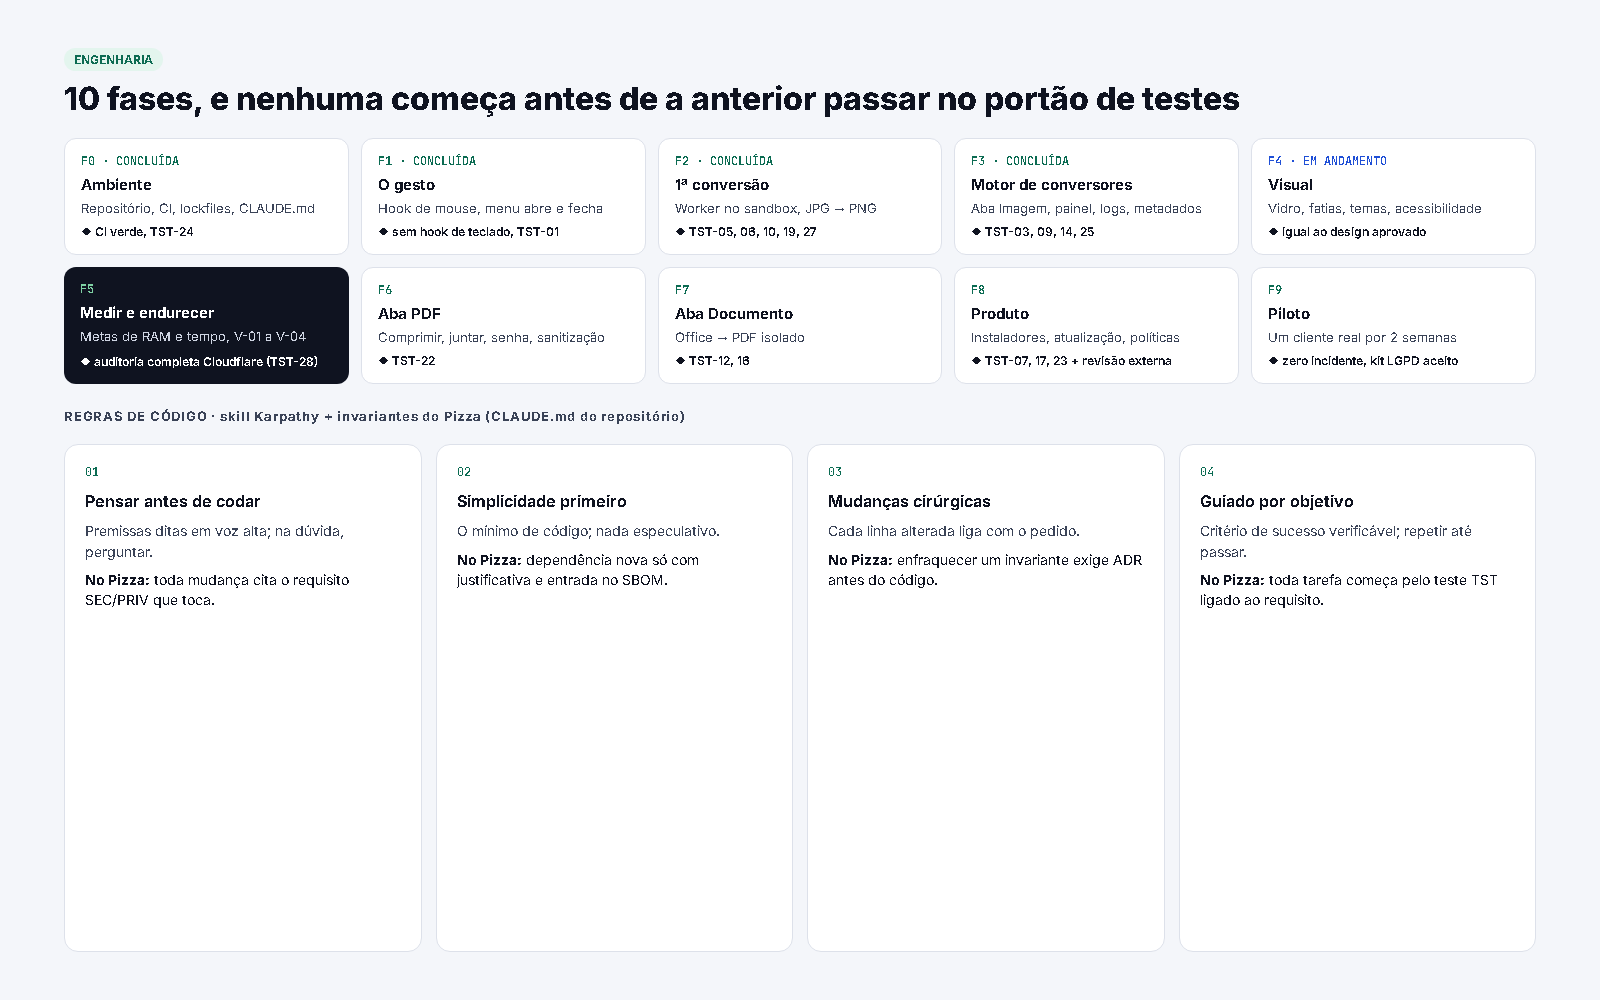
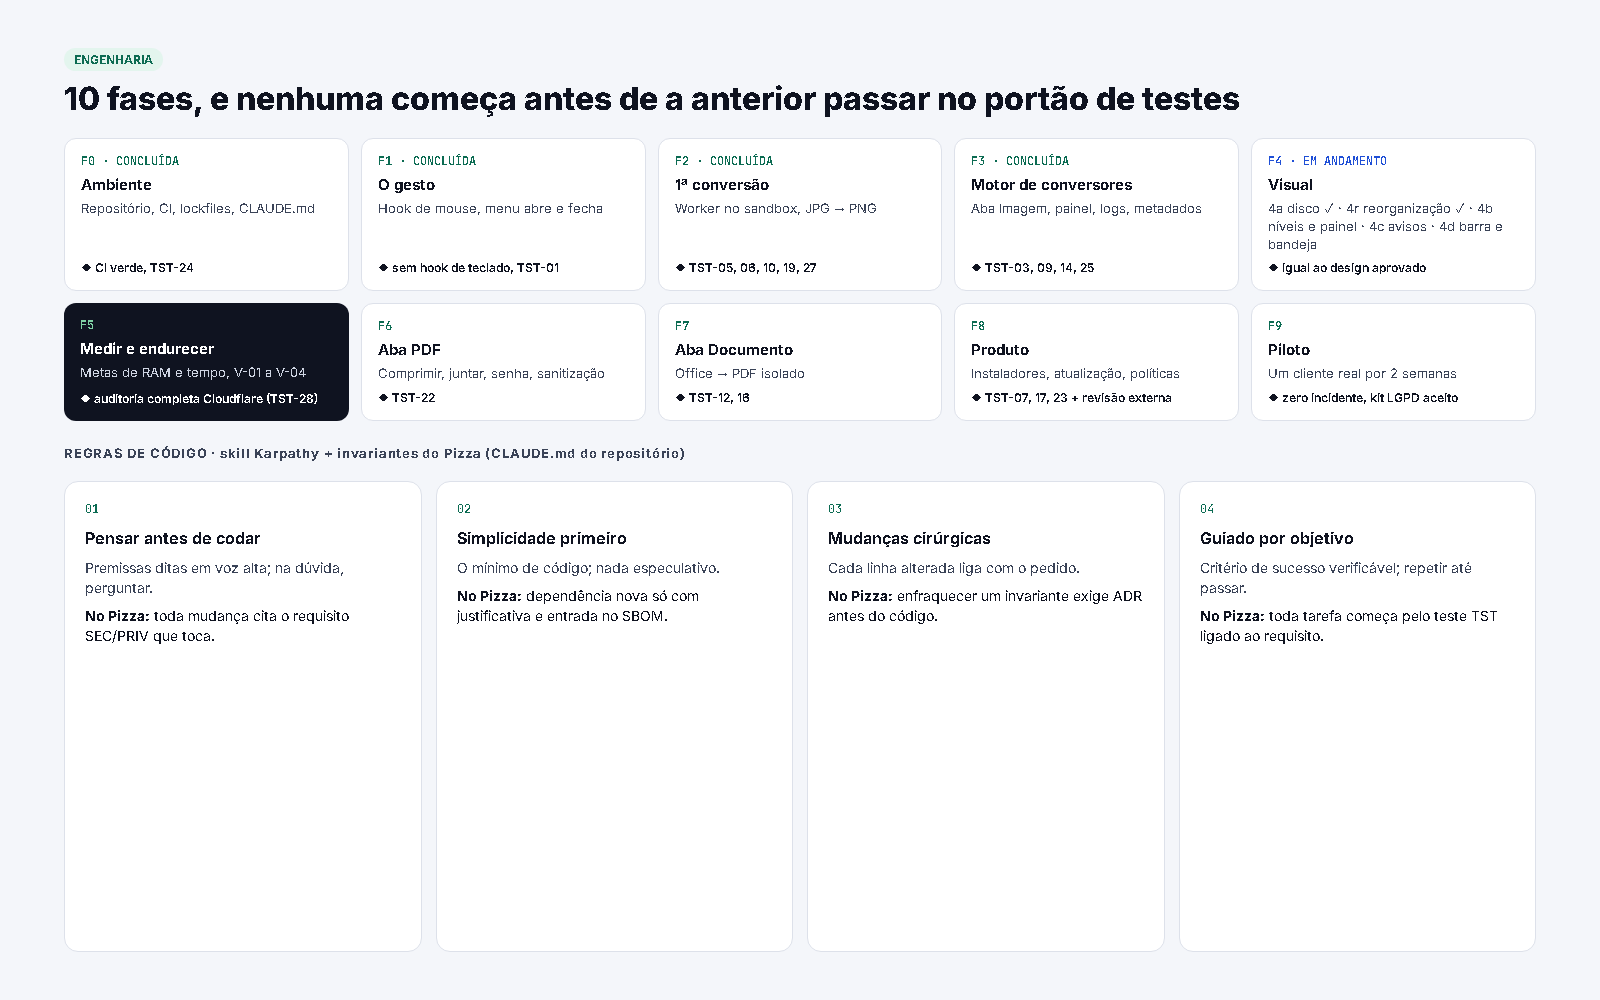
docs: Dossiê alinhado, decisões recentes e ADR-026 (vídeo)
- Pranchas atualizadas: capa (status da Fase 4), DES-1 (giro de aba
  240 ms), WF-1 (6 abas futuras, botão direito e 10 s), WF-2 (texto
  curvo), ENG-0 (etapas da Fase 4) e ENG-3 (testes e Overlay em
  partes); prancha nova DEC-1 com decisões e próximos passos.
- ADR-026: aba Vídeo separada de Áudio, com Media Foundation e FFmpeg
  (este após análise de licença e patentes); C# continua.
- SPECS §2.1: detalhes da faixa de níveis e da bolha de vidro (4b) e a
  barra para seis abas (4d); roteiro com o vídeo.

diff --git a/docs/SPECS.md b/docs/SPECS.md
@@ -102,7 +102,7 @@ Decisões das rodadas de alinhamento de 08/11/2026. **Onde houver conflito, esta
 | FR-23 | "Manter metadados" funciona em JPG, PNG e WEBP. Em PDF e ICO, a caixa aparece desativada, com o aviso de que o formato não guarda metadados | — |
 | Imagem → PDF | Gerador próprio, sem PDFsharp (AGPL desde a 6.5.0). Folha A4 acompanhando a orientação da imagem, margem de 10 mm. A biblioteca das demais operações de PDF será decidida na Fase 6 | 022 |
 | Aba Imagem e FR-04 | AVIF entra depois do WEBP. Com mais de 6 formatos, as fatias se dividem em voltas; a roda percorre as voltas da aba antes da próxima aba, e pontos no miolo mostram a volta. Aba sem conversão mostra "Em breve" com o que vem nela | 024 |
-| Áudio/Vídeo (v1.x) | MP3, WAV, FLAC, M4A/AAC e OGG/Opus; MP4, WebM e AV1; GIF para vídeo; extrair áudio de vídeo; MOV e MKV para MP4; opções de resolução, taxa de quadros e meta de tamanho. HEVC só depois de análise de patentes e licença. Em estudo para fotógrafos e videomakers: fotos RAW (CR2, NEF, ARW, DNG), que exigem biblioteca nova, e ProRes para MP4 | — |
+| Áudio/Vídeo (v1.x) | Duas abas, Áudio e Vídeo; "extrair áudio" fica em Vídeo. Motores: Media Foundation do Windows e FFmpeg (este após análise de licença e patentes), só no Worker isolado (ADR-026). Áudio: MP3, WAV, FLAC, M4A/AAC e OGG/Opus. Vídeo: MP4, WebM e AV1; GIF para vídeo; extrair áudio de vídeo; MOV e MKV para MP4; opções de resolução, taxa de quadros e meta de tamanho. HEVC só depois de análise de patentes e licença. Em estudo para fotógrafos e videomakers: fotos RAW (CR2, NEF, ARW, DNG), que exigem biblioteca nova, e ProRes para MP4 | — |
 | Web (v1.x, aba nova) | Minificar HTML, CSS e JS; TTF e OTF para WOFF2; gerar .gz e .br de um arquivo. Ativar compressão em servidor fica de fora, por não ser conversão de arquivo; SVG a partir de imagem fica em estudo | — |
 | Desenho e vidro | GDI+ do Windows, sem Direct2D nem Vortice. Vidro desfocado pelo próprio Pizza a partir de uma cópia do trecho da tela atrás do menu, só em memória e zerada ao fechar; branco sólido 92% com a transparência do Windows desligada | 023 |
 | TST-03 | Sem SharpFuzz: ele só observa código C#, e quem interpreta os arquivos é o libvips nativo. Teste próprio corrompe arquivos válidos de cada formato de forma repetível e os passa pelo Worker real: cerca de 100 casos em cada PR e 5.000 por semana. Queda do Worker, travamento, temporário sobrando ou erro fora de `CORRUPTED`, `UNSUPPORTED` e `LIMIT_EXCEEDED` reprovam | — |
@@ -123,8 +123,8 @@ Decisões das rodadas de alinhamento de 08/11/2026. **Onde houver conflito, esta
 | SEC-10, 11, 12, 14, 16, TST-06, TST-27 | Removidos: o canal com o Worker usa pipes sem nome, entregues só a ele. SEC-13 e SEC-15 continuam valendo | 021 |
 | SEC-57 | Confirmado: o MSI só avisa que há versão nova | — |
 | Escolha por clique (detalhes) | O botão direito numa fatia também escolhe: abre o painel de opções e, em formato sem opções, converte direto. No disco, fora das fatias, nenhum botão faz nada. Depois de 10 s sem interação (mouse, roda ou teclado), a escolha fecha; cada interação reinicia a contagem | 025 |
-| FR-04 e FR-20 (Fase 4b) | Acima do disco, uma faixa mostra os níveis da fatia em hover, em todas as abas (exemplo: "Nível de compressão: Impressão, Escritório, Tela"). Soltar ou clicar usa o nível padrão, e o painel completo abre no botão direito. O desenho final, mesclando faixa e painel, sai num ADR da Fase 4b | — |
-| Barra de abas (Fase 4d) | Fica mais fina: entre 55% e 70% da altura atual | — |
+| FR-04 e FR-20 (Fase 4b) | Acima do disco, uma faixa mostra os níveis da fatia em hover, em todas as abas (exemplo: "Nível de compressão: Impressão, Escritório, Tela"). A faixa mostra só a opção principal de cada formato (Qualidade em JPG, WEBP e AVIF; Resolução em PNG e PDF; Tamanho em ICO) e some em formato sem opções. Soltar ou clicar no nível escolhe; com o cursor sobre a faixa, a roda troca o nível, e no resto do menu continua trocando a aba. Soltar ou clicar na fatia usa o nível padrão, e o painel completo abre no botão direito. Uma bolha de vidro (liquid glass) desliza entre abas, fatias e níveis. O desenho final sai numa prancha do Dossiê e num ADR da Fase 4b | — |
+| Barra de abas (Fase 4d) | Fica mais fina, entre 55% e 70% da altura atual, e cabe seis abas (com Vídeo e Web): texto encurtado ou ícone com o nome pequeno embaixo, a escolher numa prancha do Dossiê | 026 |
 | Temas do vidro (Fase 8) | Na tela de Configuração, paletas opcionais em degradê pastel, no estilo do fundo das pranchas de referência do Dossiê | — |
 | Sobre (Fase 8) | A seção Sobre da Configuração mostra a frase do projeto: "Afinal, tudo acaba em pizza." | — |
 | NFR-01 | A meta de 20 MB vale para a **memória privada** do residente, a coluna Memória do Gerenciador de Tarefas. O conjunto de trabalho total também conta DLLs do Windows compartilhadas com o Explorer (shell32, windows.storage, combase), exigidas pelo arrastar e soltar em qualquer linguagem. Medição de 10/11/2026, em repouso: 7,8 MB privados e 24 MB de conjunto de trabalho. A Fase 5 mede também com o menu aberto | — |

diff --git a/docs/adr/026-aba-video-e-motores.md b/docs/adr/026-aba-video-e-motores.md
@@ -1,0 +1,26 @@
+# ADR-026 — Aba Vídeo separada e dois motores de vídeo
+
+- **Status:** Aceita pelo mantenedor em 11/11/2026. Detalha a linha "Áudio/Vídeo (v1.x)" da SPECS §2.1.
+- **Data:** 2026-11-11
+
+## Contexto
+
+A SPECS previa uma aba única de Áudio/Vídeo para a v1.x. O mantenedor pediu uma aba própria de vídeo, com as principais conversões, e quis saber se o C# continua servindo para algo pesado como vídeo.
+
+## Decisão
+
+- **Duas abas:** Áudio e Vídeo ficam separadas. O menu já abre na aba do tipo do arquivo arrastado, então quem arrasta um vídeo cai direto nos formatos de vídeo. Separadas, cada aba cabe numa volta de seis fatias, ou quase; juntas, passariam de onze formatos. "Extrair áudio" fica na aba Vídeo, porque é o vídeo que se arrasta.
+- **Dois motores:** o Media Foundation do Windows cobre os casos comuns (MP4, H.264, extrair áudio, reduzir resolução), com aceleração por placa de vídeo e sem licença de patente a mais. O FFmpeg empacotado cobre o que o Windows não traz (WebM, AV1, MKV). Antes de entrar, o FFmpeg passa pela análise de licença e de patentes que a SPECS já exige para o HEVC, e roda como os demais interpretadores: só dentro do Worker isolado, sem rede (SEC-20).
+- **Linguagem:** o C# continua. O trabalho pesado é decodificar e codificar, e isso acontece dentro dos codecs nativos; a linguagem do Pizza só orquestra.
+- **Barra de abas:** com Vídeo e Web, serão seis abas. A barra mais fina da Fase 4d (55–70% da altura atual) precisa caber nelas: texto encurtado ou ícone com o nome pequeno embaixo, a escolher numa prancha do Dossiê.
+
+## Consequências
+
+O instalador cresce com o FFmpeg (estimativa de 80 a 100 MB); o Media Foundation não aumenta nada. Há mais um interpretador de arquivo não confiável a manter atualizado e coberto pelo teste de arquivos corrompidos (TST-03).
+
+## Alternativas descartadas
+
+- Uma aba só de Áudio e Vídeo: abriria com formatos que não servem para o arquivo arrastado e precisaria de duas ou três voltas.
+- Só o FFmpeg: instalador maior e licença de H.264/HEVC a resolver até para o caso mais comum.
+- Só o Media Foundation: WebM, AV1 e MKV dependeriam do que estivesse instalado na máquina.
+- Reescrever em Rust para ganhar velocidade em vídeo: o tempo é gasto nos codecs nativos, iguais nas duas linguagens.

diff --git a/docs/PIZZA-PROJETO.md b/docs/PIZZA-PROJETO.md
@@ -742,6 +742,7 @@ Cada decisão também tem um arquivo próprio em [`docs/adr/`](adr/).
 | 024 | AVIF depois do WEBP e voltas de fatias quando há mais de 6 | Nenhum formato fica de fora, sem tecla extra no arraste | Fatia "Mais", Shift + roda, AVIF no fim |
 | 023 | GDI+ e desfoque próprio do vidro, substituindo Direct2D e Acrylic do ADR-003 | Acrylic e composição do Windows não funcionam com o disco inativo; sem dependência nova | Vortice, Acrylic, composição, API não documentada |
 | 025 | Soltar em qualquer posição e escolher por clique; soltar na fatia continua como atalho | Não exige sustentar o botão nem mirar no centro | Exigir soltura no centro; selecionar apenas por drop |
+| 026 | Aba Vídeo separada de Áudio, com Media Foundation e FFmpeg | O menu abre na aba do arquivo; cada aba cabe numa volta; o trabalho pesado é dos codecs nativos | Aba única de Áudio e Vídeo, só FFmpeg, só Media Foundation, Rust |
 
 ---
 

diff --git a/docs/ROADMAP.md b/docs/ROADMAP.md
@@ -12,7 +12,8 @@ Esta entrega fecha uma prévia do gesto e da conversão de imagens. Não equival
 | Worker isolado e proteção do original | Implementados; testes de integração |
 | Vidro, temas e movimento reduzido | Implementados no disco; validação manual ampla ainda necessária |
 | PDF → outros formatos e operações em PDF | Planejados |
-| Documento, áudio, vídeo e web | Planejados |
+| Documento, áudio e web | Planejados |
+| Vídeo, em aba própria (Media Foundation e FFmpeg) | Planejado para v1.x ([ADR-026](adr/026-aba-video-e-motores.md)) |
 | Lotes | Planejados para v1.x |
 | Configurações completas e políticas de TI | Planejadas |
 | Instaladores assinados, atualização verificada, SBOM e proveniência de release | Pendentes antes da distribuição estável |

diff --git a/docs/dossie/README.md b/docs/dossie/README.md
@@ -95,6 +95,12 @@ Decidido em 10/11/2026: **B · Curva completa**. A versão A, sem girar, foi des
 
 ![Sequência](eng-4-sequencia.png)
 
+## Decisões recentes
+
+### DEC-1 · O que mudou no caminho, e o que vem depois
+
+![Decisões recentes e próximos passos](dec-1-decisoes.png)
+
 ## Wireframes
 
 ### WF-1 · Anatomia do menu radial
